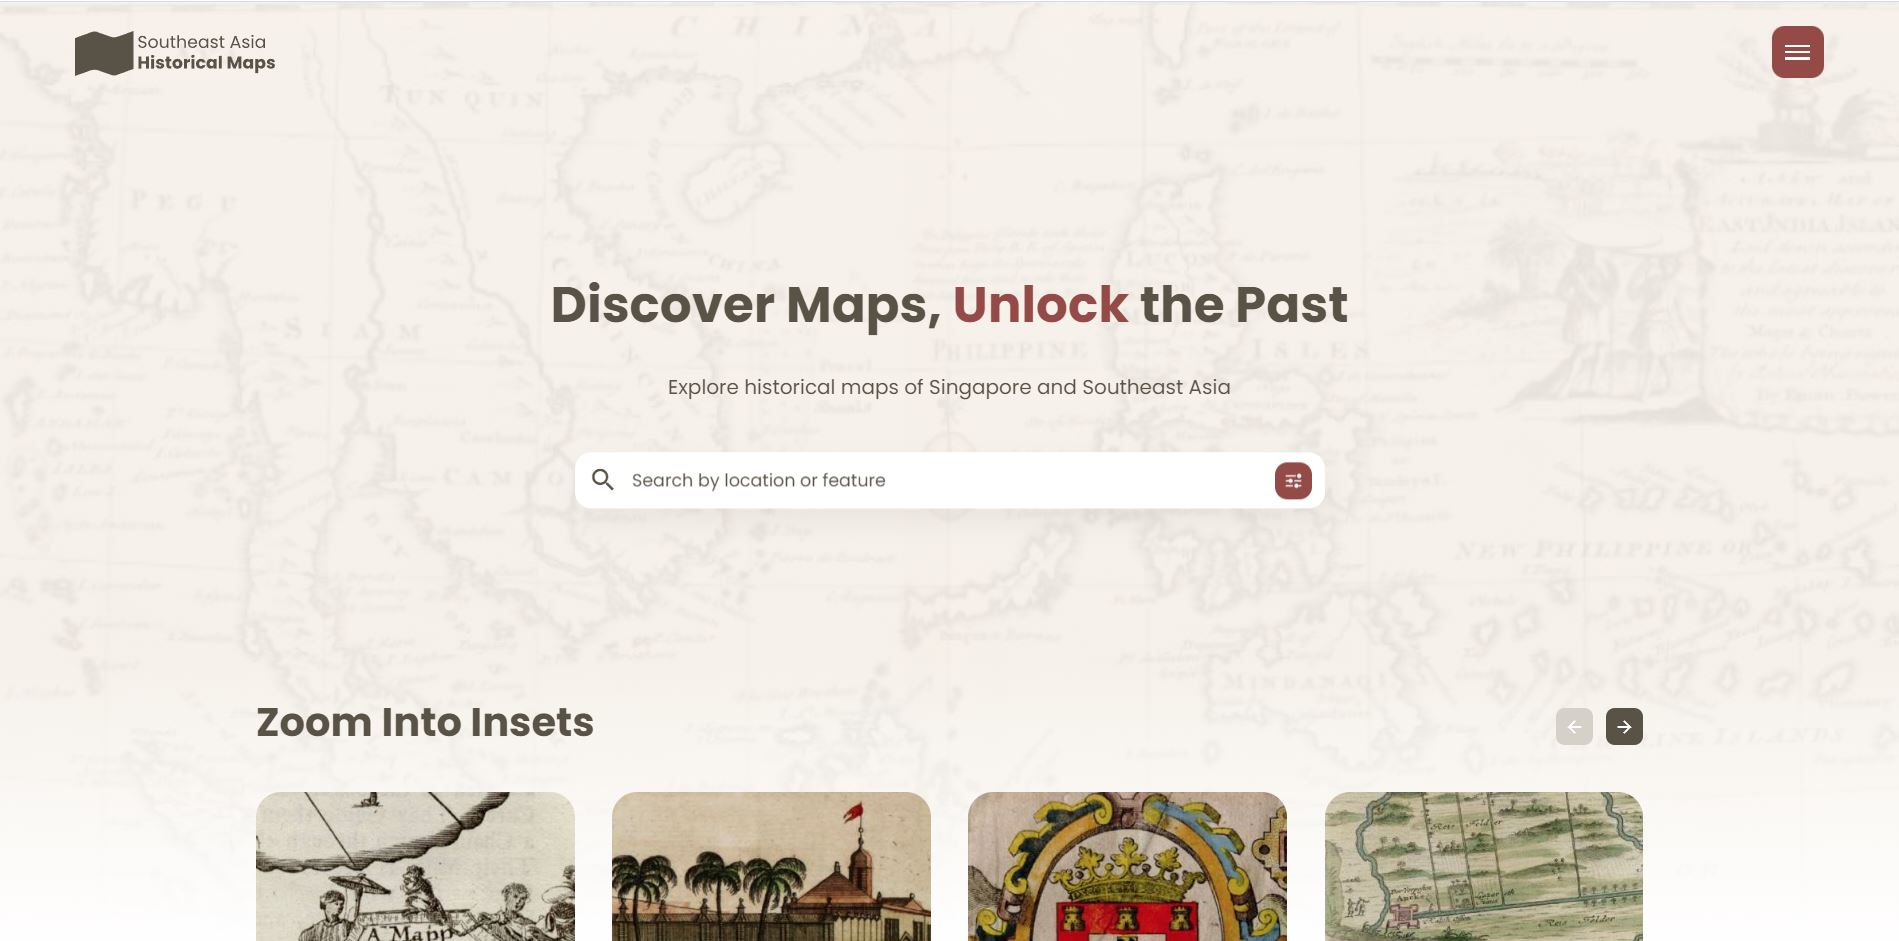
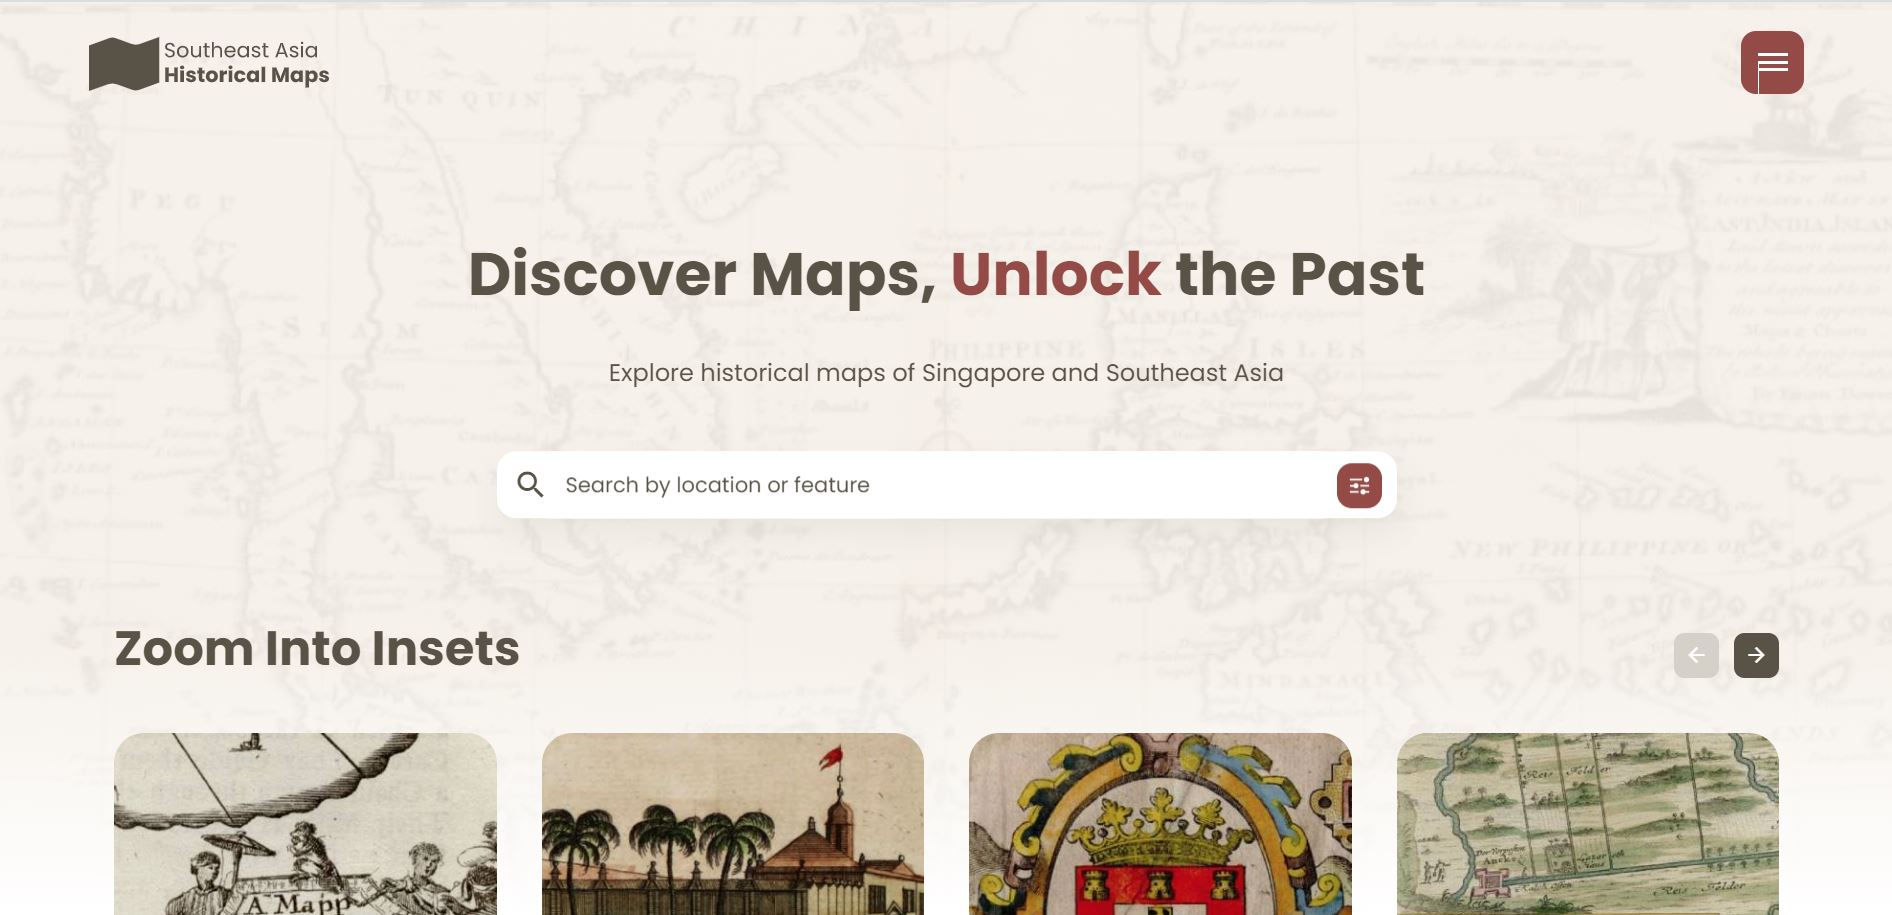
'stylefinetune'

diff --git a/index.html b/index.html
@@ -128,10 +128,12 @@
 				<div class="swiper-slide">
 					<div class="scard">
 						<div class="card show-scroll">
+						
 						<div class="name">Digital Historical Maps of Southeast Asia</div>
 						<hr/>
 						<div class="title">A discovery platform involves GIS and full text searching.</div>
-						<div class="thumbwrapper"><a href="https://historicalmaps.yale-nus.edu.sg/" target="_blank"><img class="thumb" src="images/map.jpg" /></a></div>
+						
+						<div class="thumbwrapper"><a href="https://historicalmaps.yale-nus.edu.sg/" target="_blank"><img class="thumb" src="images/map1.jpg" /></a></div>
 						
 				  </div></div></div>
 				  <div class="swiper-slide">
@@ -149,7 +151,7 @@
 						<div class="name">School Management System</div>
 						<hr/>
 						<div class="desc">A management system built with Java Spring Boot & MySQL. </div>
-						<div class="thumbwrapper"><a href="https://github.com/ShawnWon/ShawnHogwartsNew" target="_blank"></a><img class="thumb" src="images/school.jpg" /></a></div>
+						<div class="thumbwrapper"><a href="https://github.com/ShawnWon/ShawnHogwartsNew" target="_blank"><img class="thumb" src="images/school.jpg" /></a></div>
 						
 				  </div></div></div>
 				  <div class="swiper-slide">
@@ -158,7 +160,7 @@
 						<div class="name">A Logistic System</div>
 						<hr/>
 						<div class="desc">A logistic system built with .Net Framework & MSSQL. </div>
-						<div class="thumbwrapper"><a href="https://github.com/ShawnWon/ShawnsLogisticSystemLocal" target="_blank"></a><img class="thumb" src="images/logistic.jpg" /></a></div>
+						<div class="thumbwrapper"><a href="https://github.com/ShawnWon/ShawnsLogisticSystemLocal" target="_blank"><img class="thumb" src="images/logistic.jpg" /></a></div>
 						
 				  </div></div></div>
 				  <div class="swiper-slide">
@@ -167,19 +169,20 @@
 						<div class="name">A E-commercial Shop</div>
 						<hr/>
 						<div class="desc">A E-commercial Shop built with .Net Framework & MSSQL. </div>
-						<div class="thumbwrapper"><a href="https://github.com/ShawnWon/Eshop2cloud2" target="_blank"></a><img class="thumb" src="images/shop.jpg" /></a></div>
+						<div class="thumbwrapper"><a href="https://github.com/ShawnWon/Eshop2cloud2" target="_blank"><img class="thumb" src="images/shop.jpg" /></a></div>
 						
 				  </div></div></div>
 
 			</div>
 			<!-- If we need pagination -->
 			<div class="swiper-pagination"></div>
+			<a class="ca3-scroll-down-link ca3-scroll-down-arrow bg-dark" data-ca3_iconfont="ETmodules" data-ca3_icon=""></a>
 
 			<!-- If we need navigation buttons -->
 			<div class="swiper-button-prev"></div>
 			<div class="swiper-button-next"></div>
 			</div>
-			<a class="ca3-scroll-down-link ca3-scroll-down-arrow bg-dark" data-ca3_iconfont="ETmodules" data-ca3_icon=""></a>
+
 	</div>
 	</div>
 	<a id="myjourney"></a>
@@ -320,12 +323,13 @@
 			</div>
 			<!-- If we need pagination -->
 			<div class="swiper-pagination"></div>
+			
+			<a class="ca3-scroll-down-link ca3-scroll-down-arrow" data-ca3_iconfont="ETmodules" data-ca3_icon=""></a>
 
 			<!-- If we need navigation buttons -->
 			<div class="swiper-button-prev bg-dark-btn"></div>
 			<div class="swiper-button-next bg-dark-btn"></div>
 			</div>
-			<a class="ca3-scroll-down-link ca3-scroll-down-arrow" data-ca3_iconfont="ETmodules" data-ca3_icon=""></a>
 	</div>
 	</div>
 	<a id="myblog"></a>
@@ -413,11 +417,11 @@
 			<!-- If we need pagination -->
 			<div class="swiper-pagination blogpagi"></div>
 
+			<a class="ca3-scroll-down-link ca3-scroll-down-arrow bg-dark" data-ca3_iconfont="ETmodules" data-ca3_icon=""></a>
 			<!-- If we need navigation buttons -->
 			<div class="swiper-button-prev blogbtn"></div>
 			<div class="swiper-button-next blogbtn"></div>
 			</div>
-			<a class="ca3-scroll-down-link ca3-scroll-down-arrow bg-dark" data-ca3_iconfont="ETmodules" data-ca3_icon=""></a>
 			</div>
 	</div>
 	

diff --git a/css/style.css b/css/style.css
@@ -736,21 +736,21 @@ h1, h2, h3, h4, h5, h6, figure {
 
 .swiperjourney {
   width: 100%;
-  height: 80%;
+  height: 100vh;
   overflow:visible;
 }
 
 .swiperportfolio {
   margin: auto;
   width: 80%;
-  height: 70%;
+  height: 100vh;
   overflow:visible;
 }
 
 .swipermyblog {
   margin: auto;
   width: 80%;
-  height: 70%;
+  height: 100vh;
   overflow:visible;
 }
 
@@ -759,10 +759,12 @@ h1, h2, h3, h4, h5, h6, figure {
 .swiperaboutme {
   margin: auto;
   width: 100%;
-  height: 80%;
+  height: 100vh;
   overflow:visible;
 }
-
+.swiper-wrapper {
+  height: initial;
+}
 .swiper-button-next, .swiper-button-prev {
   color:rgba(104, 112, 95);
 }
@@ -782,22 +784,17 @@ h1, h2, h3, h4, h5, h6, figure {
 .swiper-pagination-bullet-active {
   background-color:rgb(44, 49, 38);
 }
+.swiper-horizontal>.swiper-pagination-bullets, .swiper-pagination-bullets.swiper-pagination-horizontal {
+  bottom:initial;
+}
 /*mobile*/
 @media screen and (max-width: 768px) {
-  /*.reduxthumb {
-    content:url("../images/reduxmobile.jpg");
-  }
-  
-  .mapthumb {
-    content:url("../images/mapmobile.jpg");
-  }
 
-  .pixplotthumb {
-    content:url("../images/pixplotmobile.jpg");
-  }*/
   .swiper-slide {
     max-width: 600px;
   }
+
+
   #fh5co-header .display-tc h1,
   .fh5co-cover .display-tc h1 {
     font-size: 34px;
@@ -941,15 +938,23 @@ h1, h2, h3, h4, h5, h6, figure {
 
 }
 
+
 .thumbwrapper {
   width: 100%;
-  height: 60%;
+  height: 80%;
+  display:flex;
+  justify-content: center;
+  align-items: center;
   overflow: hidden;
-  text-align: center;
+  border-radius: 10px;
 }
-.scard .thumbwrapper img {
+.scard .thumbwrapper a .thumb {
   max-width: 100%;
+  max-height: 100%;
+  flex-shrink: 1;
+
 }
+
 
 .aboutmecard {
   padding: 0 !important;
@@ -1289,3 +1294,4 @@ figure.snip0057.hover:before {
     filter: blur(0);
   }
 }
+
